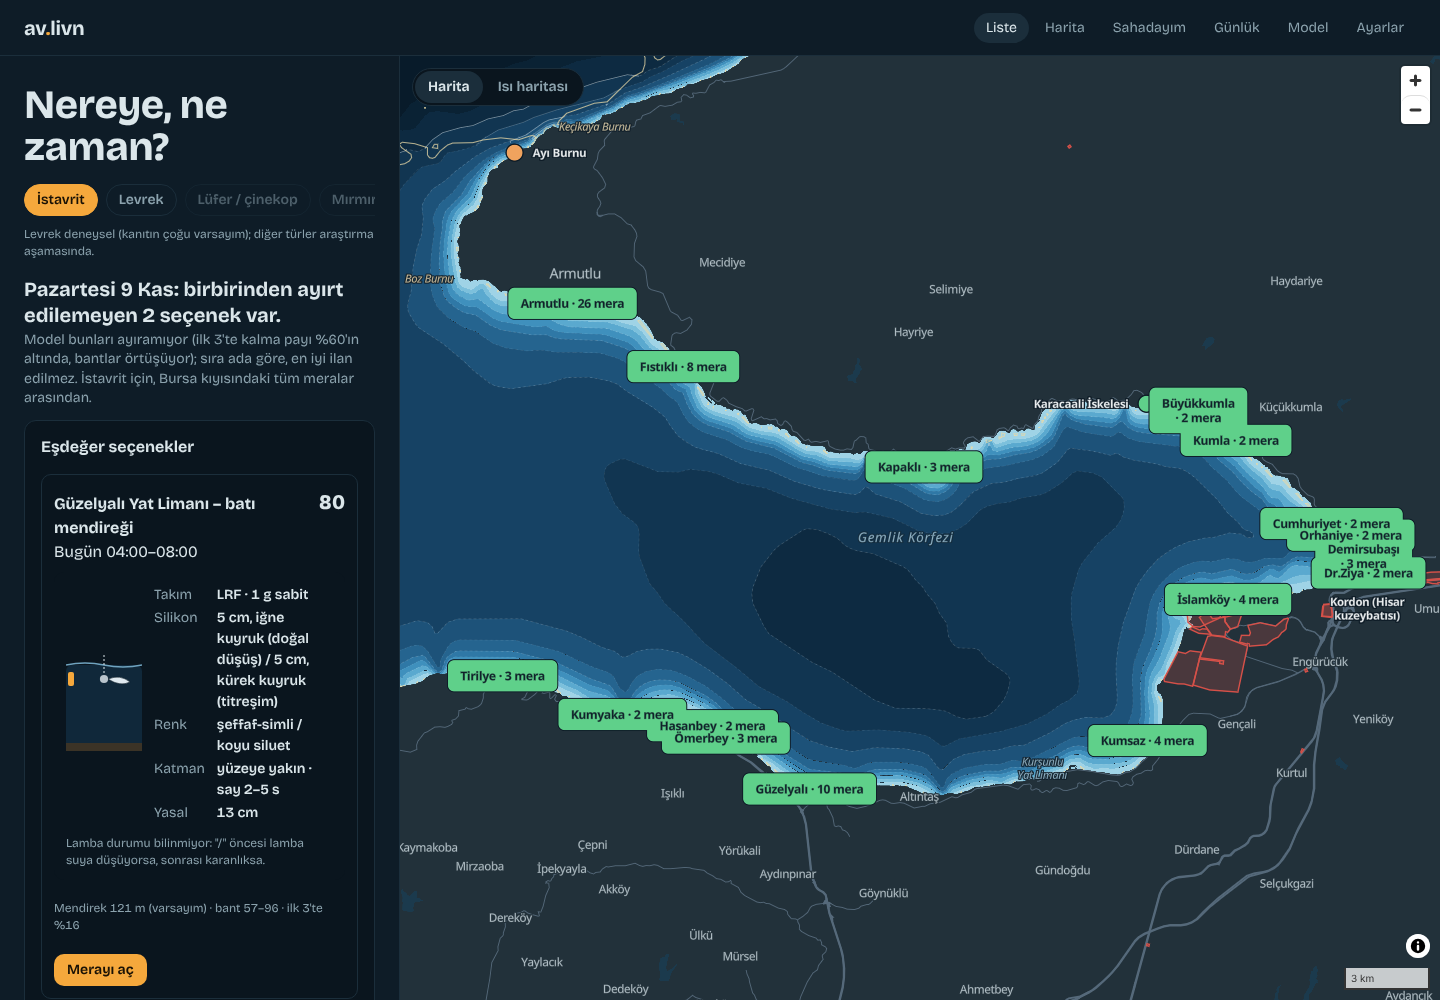
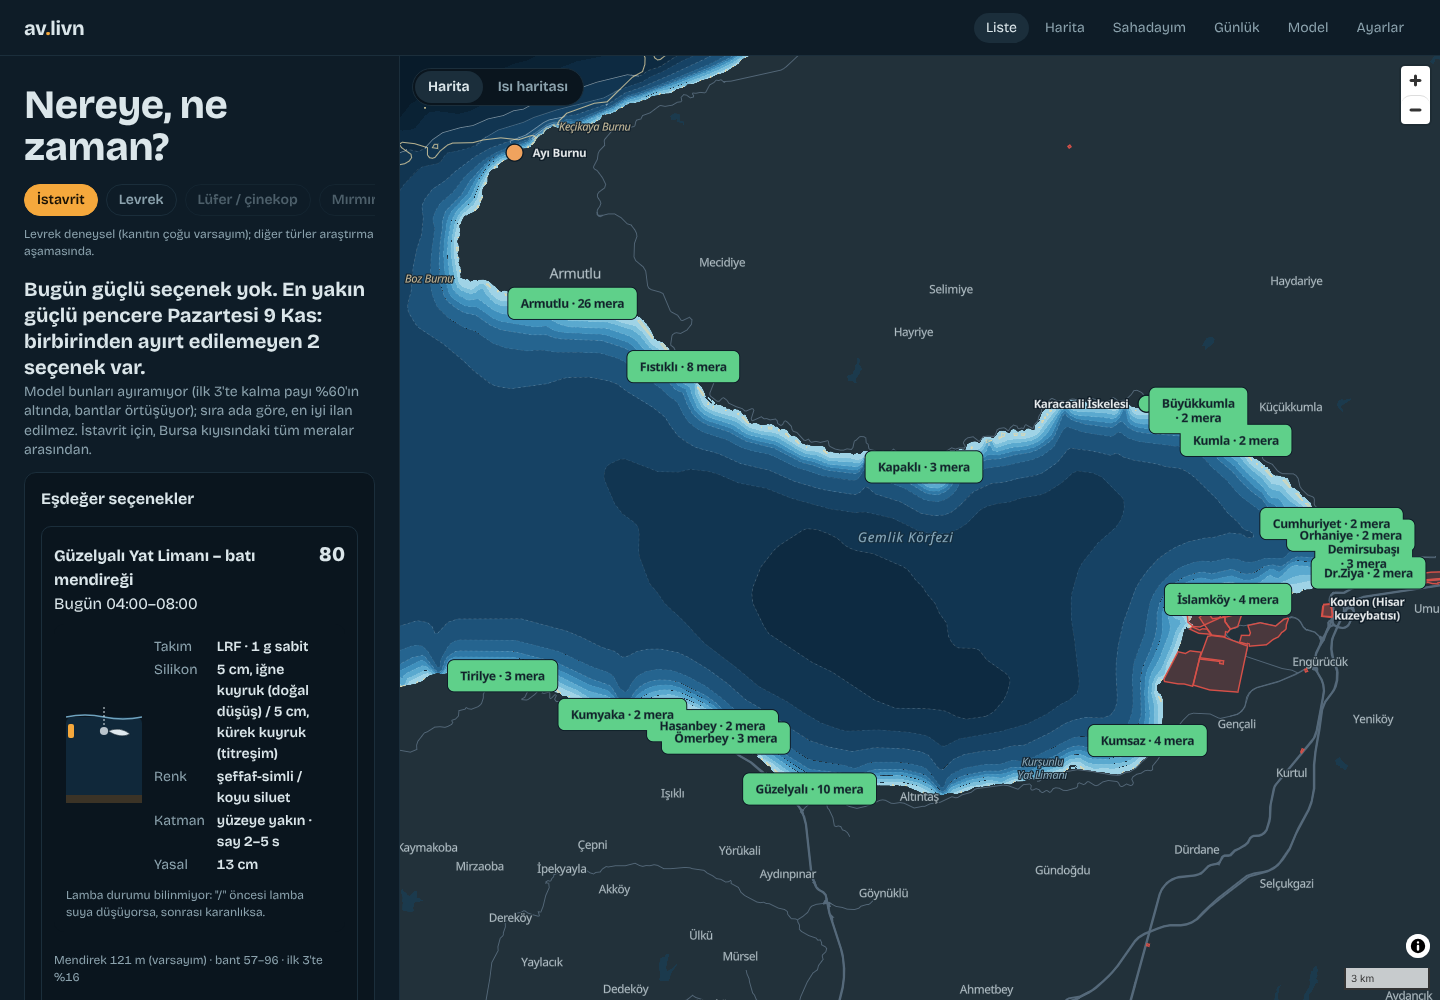
docs: Faz K progress
Claude-Session: https://claude.ai/code/session_01TJQj1bgS7eeTjR1ud5CFzN

Changed region(s): [[0.0, 0.279, 0.25, 1.0], [0.2188, 0.496, 0.25, 0.558]]

diff --git a/PROGRESS.md b/PROGRESS.md
@@ -247,8 +247,8 @@
 - Canlı: smoke yeşil, e2e tüm adımlar, 119/119 mera puanlı, İDO lamba bileşeni 0,5; Ayarlar varsayılanı kapalı → plan Bursa'dan, açık → Armutlu/Fıstıklı (Yalova rozeti); Sahadayım ipucu ilk açılışta görünür, "Anladım"dan sonra görünmez. Ekranlar `docs/screenshots/j/`.
 - [x] J5 Sahadayım ilk kullanım ipucu (3 adım); Ayarlar'da "Uzaktan lamba gözlemi" paragrafı.
 
-## Faz K — puanlama arızası ve küçük model/ekran düzeltmeleri (2026-11-06/07) — sürüyor
+## Faz K — puanlama arızası ve küçük model/ekran düzeltmeleri (2026-11-06/07) ✅ DUR (yedek tetik GH_DISPATCH_TOKEN bekliyor)
 - [x] K0 kök neden: score.yml hata vermedi, GitHub zamanlayıcısı 19:23/20:23/21:23 tetiklerini atladı; 21:44 yalnız `--pending` ("nothing to rescore"). Watchdog da GitHub zamanlayıcısına bağlı (4–7 saatte bir çalışmış) ve push aboneliği 0. Düzeltmeler: `--pending` çalışması 75 dk'dan eski puanda tam çalışmaya geçer; Worker cron'u (Cloudflare) 75 dk'dan eski puanda score.yml'ı dispatch eder (GH_DISPATCH_TOKEN bekleniyor) ve 2 saati aşınca ntfy uyarısını kendisi gönderir (NTFY_TOPIC, deploy.yml aktarır); uyarıda son puanlama saati. Elle puanlama 22:05Z.
-- [x] K1 kod: yalnız gerçek yat limanları (`private_marina`, migration 0016) plan ve bildirimlerden çıkar; köy iskeleleri ve balıkçı barınakları yerleşim kuralına döner (seed eski "belirsiz" tahminini yeniden değerlendirir, kullanıcı girişi kazanır). Geodata bekleniyor.
+- [x] K1 kod: yalnız gerçek yat limanları (`private_marina`, migration 0016) plan ve bildirimlerden çıkar; köy iskeleleri ve balıkçı barınakları yerleşim kuralına döner (seed eski "belirsiz" tahminini yeniden değerlendirir, kullanıcı girişi kazanır). Canlı: yalnız Kurşunlu Yat Limanı ve Güzelyalı Yat Limanı – liman içi işaretli; Tirilye Limanı belirsiz → açık; Karacaali, Büyükkumla açık kaldı.
 - [x] K2 lamba önseli: kanıtsız yapılar 0,5; kayalık 0,10, kumsal/dere ağzı 0,15. Önce/sonra `docs/audit/k2-lamp-top10.json`.
 - [x] K3 eşdeğer seçenekler: ilk 3 payı < %60 ve bant örtüşmesi → sırasız "Eşdeğer seçenekler" (MODEL.md §16).
